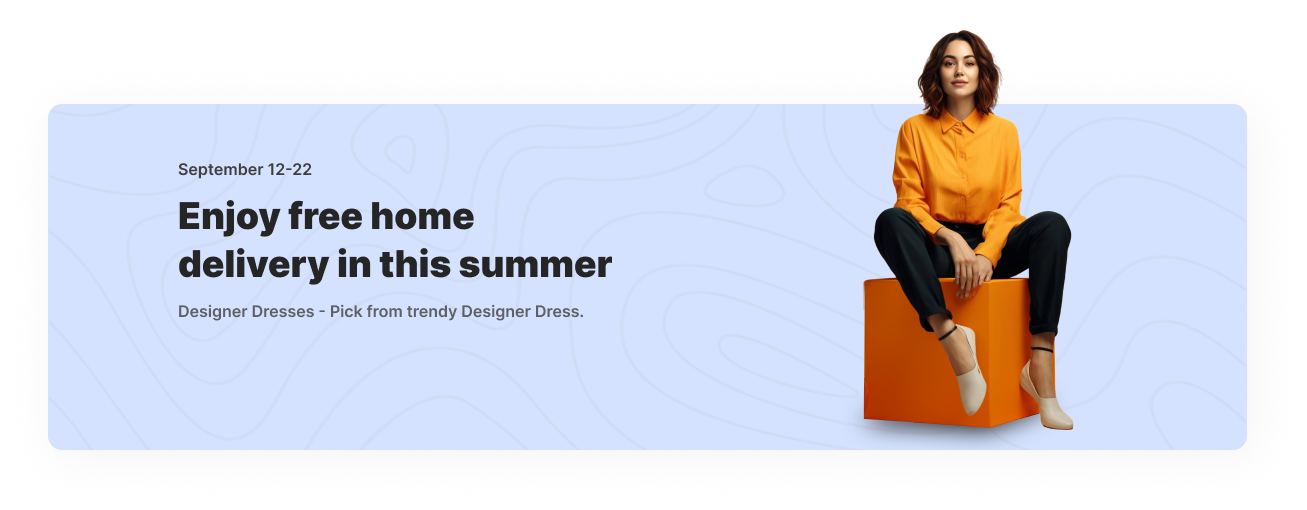
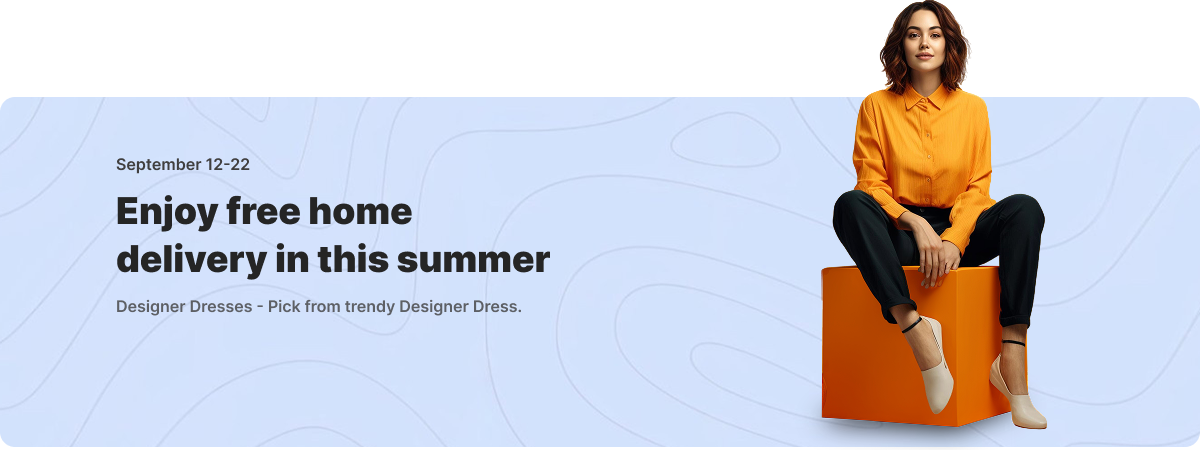
fix: fixed image size

diff --git a/app/components/Home/SecondBanner/SecondBanner.jsx b/app/components/Home/SecondBanner/SecondBanner.jsx
@@ -1,15 +1,13 @@
-import Image from 'next/image';
-
 export default function SecondBanner() {
     return (
-        <section className='w-[1200px] h-[450px] mt-[0.875rem] relative rounded-[0.875rem]'>
+        <section className='w-[1200px] h-[450px] mt-7 relative rounded-[0.875rem]'>
             <img
                 src='/second-banner.png'
                 alt='second banner'
                 className='w-full h-[450px]'
             />
 
-            <button className='px-8 py-[0.625rem] border border-[#403F3F] text-base/[1.75rem] absolute bottom-[2.363rem] left-[8.125rem] rounded-full'>
+            <button className='px-8 py-[0.625rem] border border-[#403F3F] text-base/[1.75rem] absolute bottom-[3rem] left-[7.5rem] rounded-full'>
                 Shop Now
             </button>
         </section>
